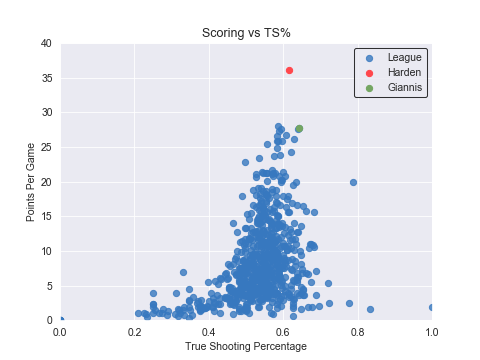
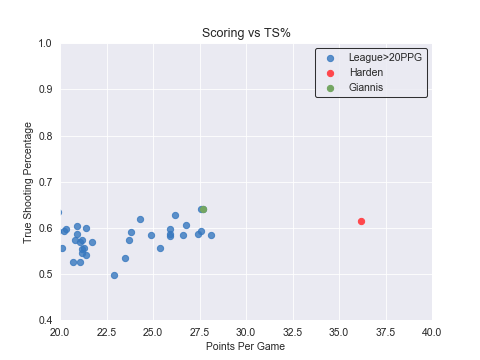
update scoringTS

diff --git a/MVP_Race/ScoringTS.py b/MVP_Race/ScoringTS.py
@@ -4,7 +4,8 @@ import matplotlib.pyplot as plt
 
 sns.set_style('dark')
 
-df = pd.read_csv(r'C:\Users\wilso\Desktop\NBA_Analysis\MVP_Race\data\Player-PerGame.csv',index_col=0)
+df = pd.read_csv(r'C:\Users\wilso\Desktop\data\Player-Advanced.csv',index_col=0)
+df = df[df['MP']>=500]
 df['harden'] = df.Player == 'James Harden'
 harden = df[df.harden==True]
 df['giannis'] = df.Player == 'Giannis Antetokounmpo'
@@ -12,16 +13,16 @@ giannis = df[df.giannis==True]
 league_players = df[df.harden==False]
 
 plt.figure(dpi=75)
-plt.scatter(league_players.TSPer, league_players.PTS, c=sns.xkcd_palette(['windows blue']), label='League', alpha = .8)
-plt.scatter(harden.TSPer, harden.PTS, c=sns.xkcd_palette(['light red']), label='Harden')
-plt.scatter(giannis.TSPer, giannis.PTS, c=sns.xkcd_palette(['dull green']), label='Giannis')
+plt.scatter(league_players.PTS, league_players.TSPer, c=sns.xkcd_palette(['windows blue']), label='League>20PPG', alpha = .8)
+plt.scatter(harden.PTS, harden.TSPer, c=sns.xkcd_palette(['light red']), label='Harden')
+plt.scatter(giannis.PTS, giannis.TSPer, c=sns.xkcd_palette(['dull green']), label='Giannis')
 legend = plt.legend(frameon=True, loc=0)
 frame = legend.get_frame()
 frame.set_edgecolor('black')
-plt.xlim(0.00,1.0)
-plt.ylim(0, 40)
+plt.xlim(20, 40)
+plt.ylim(.4, 1.0)
 plt.title('Scoring vs TS%')
-plt.xlabel('True Shooting Percentage')
-plt.ylabel('Points Per Game')
+plt.xlabel('Points Per Game')
+plt.ylabel('True Shooting Percentage')
 plt.grid()
 plt.savefig(fname=r'C:\Users\wilso\Desktop\NBA_Analysis\MVP_Race\figs\ScoringTS')
